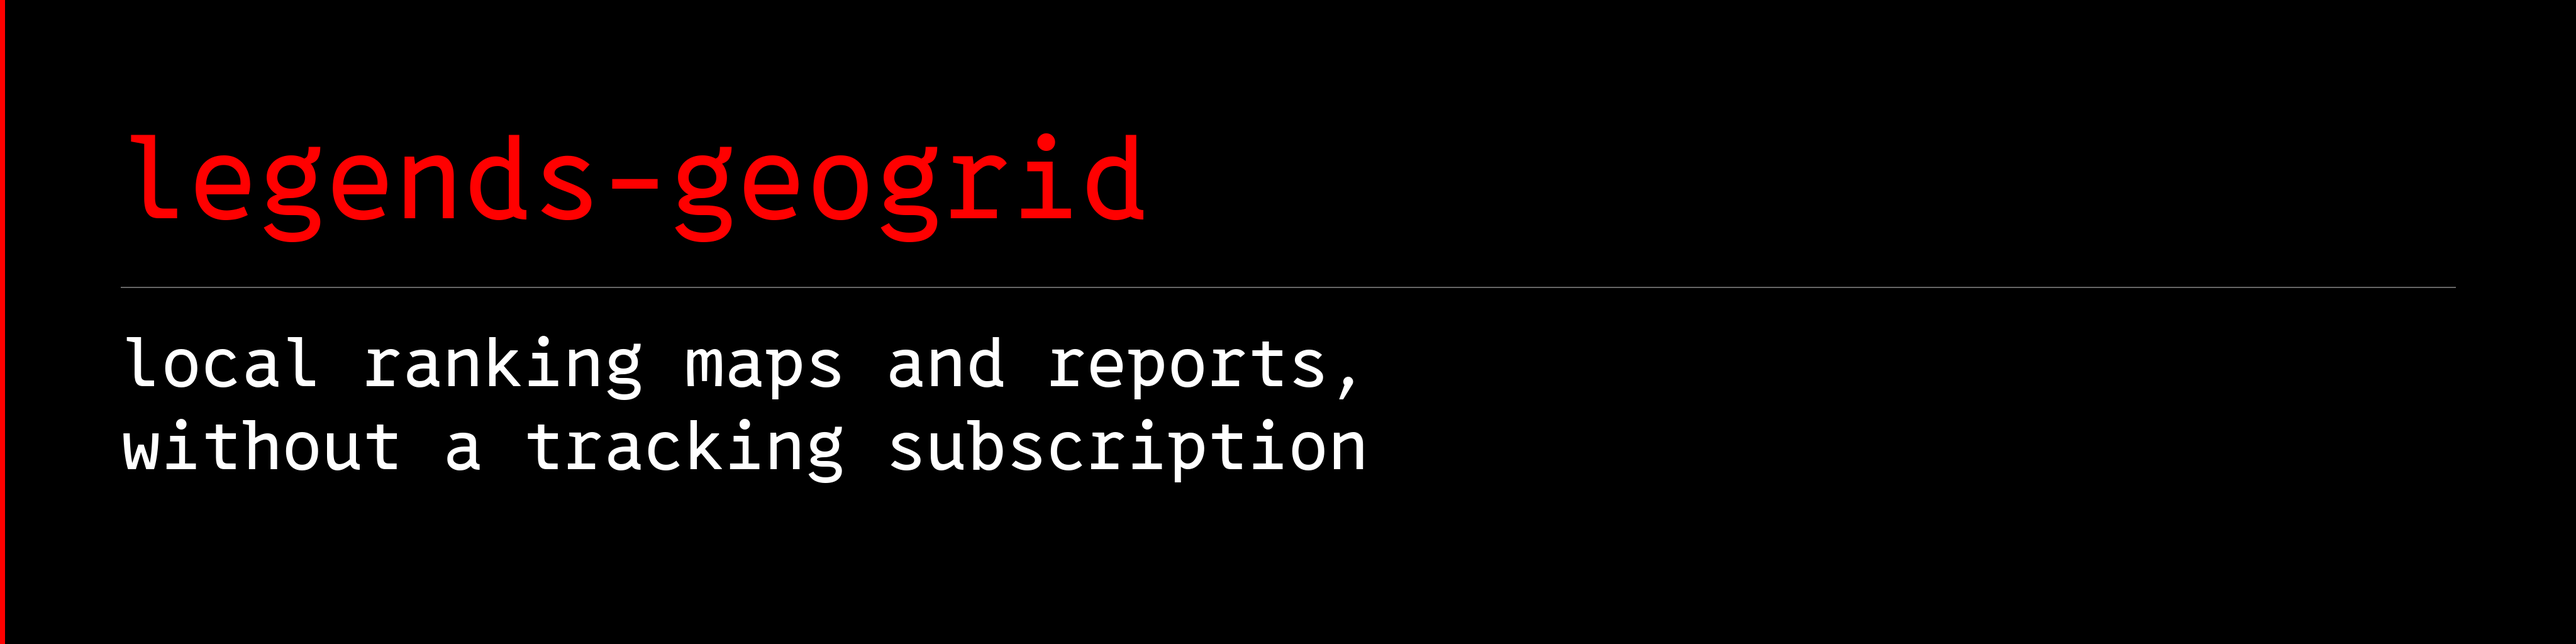
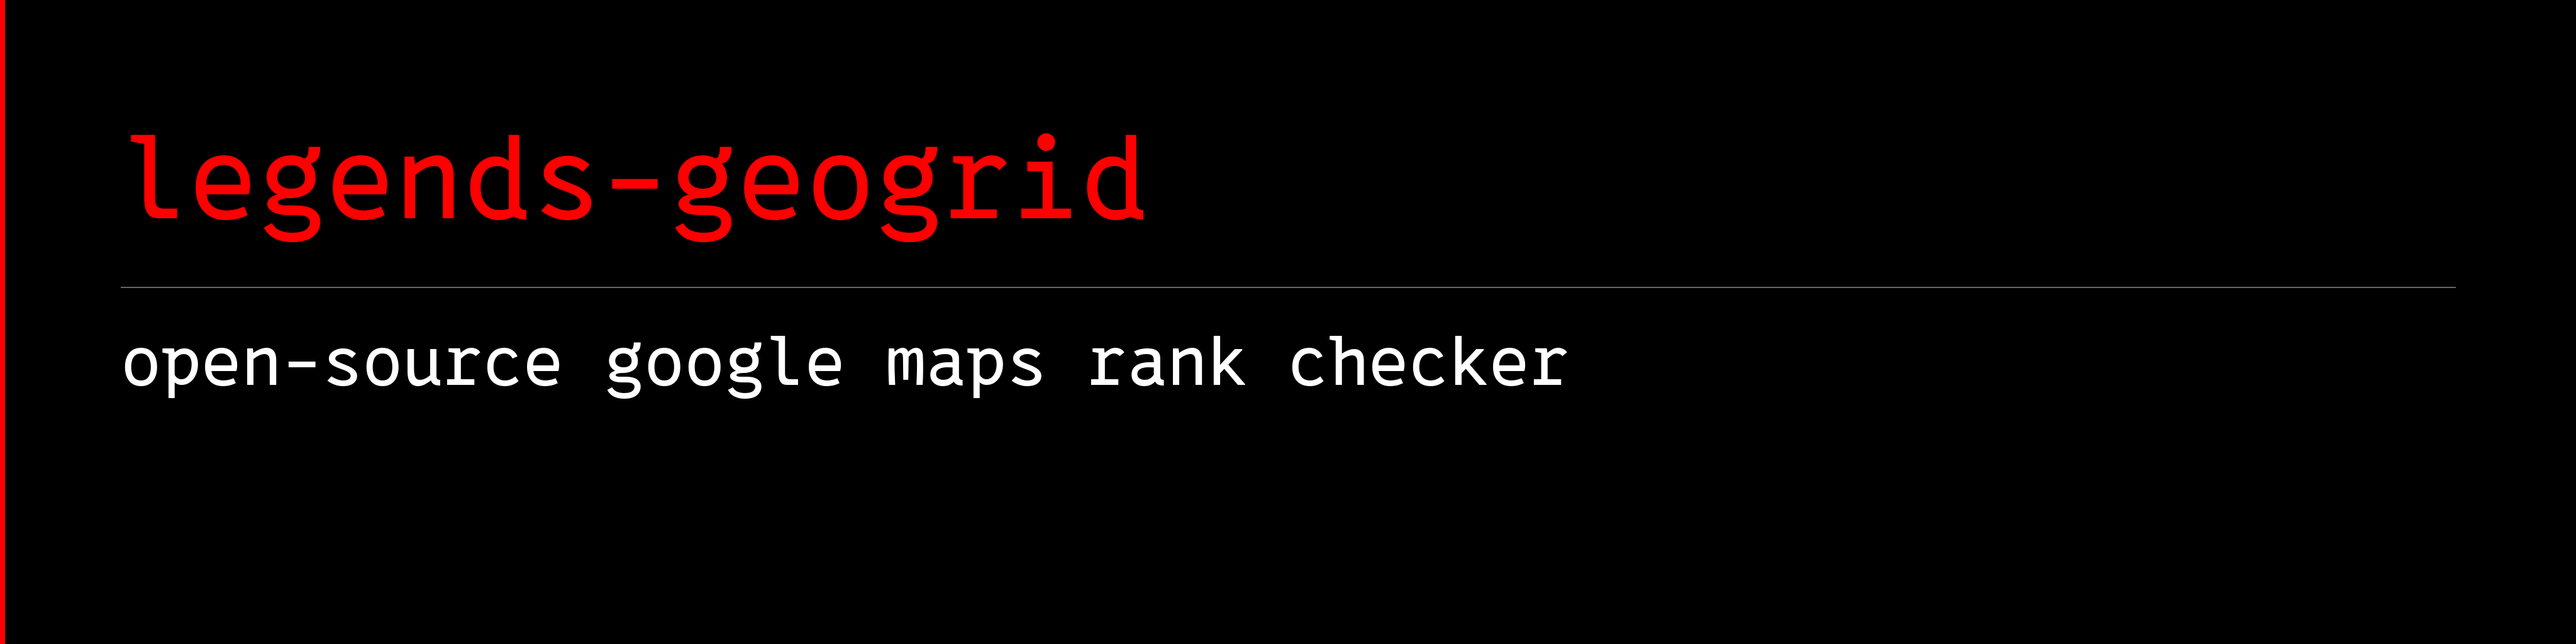
Integrate shared DataForSEO kit and sharpen GeoGrid positioning

Changed region(s): [[0.0312, 0.5312, 0.625, 0.625], [0.0312, 0.6562, 0.5312, 0.75]]

diff --git a/index.html b/index.html
@@ -4,8 +4,8 @@
     <meta charset="UTF-8" />
     <meta name="viewport" content="width=device-width, initial-scale=1.0" />
     <link rel="icon" type="image/svg+xml" href="/favicon.svg" />
-    <meta name="description" content="Open-source local SEO geo-grid scans with DataForSEO and explicit cost controls." />
-    <title>legends-geogrid · Open-source local rank grids</title>
+    <meta name="description" content="Open-source google maps rank checker with geographic ranking grids, PDF reports, and DataForSEO cost controls." />
+    <title>legends-geogrid · open-source google maps rank checker</title>
   </head>
   <body>
     <div id="app"></div>

diff --git a/tools/local_heatmap_poc.py b/tools/local_heatmap_poc.py
@@ -10,17 +10,13 @@ and writes raw JSON plus Markdown/HTML heatmap reports.
 from __future__ import annotations
 
 import argparse
-import base64
 import datetime as dt
 import html
 import json
 import math
-import os
 import re
 import sys
 import tempfile
-import urllib.error
-import urllib.request
 from urllib.parse import urlparse
 from dataclasses import dataclass
 from difflib import SequenceMatcher
@@ -172,32 +168,8 @@ def build_tasks(args: argparse.Namespace, points: list[GridPoint]) -> list[dict[
     return tasks
 
 
-def dataforseo_auth_header() -> str:
-    username = os.environ.get("DATAFORSEO_USERNAME")
-    password = os.environ.get("DATAFORSEO_PASSWORD")
-    if not username or not password:
-        raise RuntimeError("DATAFORSEO_USERNAME and DATAFORSEO_PASSWORD must be set in the environment")
-    token = base64.b64encode(f"{username}:{password}".encode("utf-8")).decode("ascii")
-    return f"Basic {token}"
-
-
 def call_dataforseo_live_task(task: dict[str, Any], timeout: int) -> dict[str, Any]:
-    request = urllib.request.Request(
-        DATAFORSEO_MAPS_LIVE_URL,
-        data=json.dumps([task]).encode("utf-8"),
-        headers={
-            "Authorization": dataforseo_auth_header(),
-            "Content-Type": "application/json",
-        },
-        method="POST",
-    )
-    try:
-        with urllib.request.urlopen(request, timeout=timeout) as response:
-            body = response.read().decode("utf-8")
-    except urllib.error.HTTPError as exc:
-        body = exc.read().decode("utf-8", errors="replace")
-        raise RuntimeError(f"DataForSEO HTTP {exc.code}: {body}") from exc
-    return json.loads(body)
+    return http_json(DATAFORSEO_MAPS_LIVE_URL, timeout=timeout, payload=[task])
 
 
 def call_dataforseo_live(tasks: list[dict[str, Any]], timeout: int) -> dict[str, Any]:
@@ -244,23 +216,22 @@ def call_dataforseo_live(tasks: list[dict[str, Any]], timeout: int) -> dict[str,
 
 
 def http_json(url: str, timeout: int, payload: list[dict[str, Any]] | None = None) -> dict[str, Any]:
-    data = None if payload is None else json.dumps(payload).encode("utf-8")
-    request = urllib.request.Request(
-        url,
-        data=data,
-        headers={
-            "Authorization": dataforseo_auth_header(),
-            "Content-Type": "application/json",
-        },
-        method="GET" if payload is None else "POST",
-    )
+    """Use the shared kit after the runner has checked its execution/spend gates.
+
+    Lazy import preserves credential-free estimates and offline report examples.
+    Raw task statuses remain available to the queue and evidence parsers.
+    """
     try:
-        with urllib.request.urlopen(request, timeout=timeout) as response:
-            body = response.read().decode("utf-8")
-    except urllib.error.HTTPError as exc:
-        body = exc.read().decode("utf-8", errors="replace")
-        raise RuntimeError(f"DataForSEO HTTP {exc.code}: {body}") from exc
-    return json.loads(body)
+        from legends_dataforseo import API_ROOT, api_request
+    except ImportError as exc:
+        raise RuntimeError(
+            "Fresh scans require legends-dataforseo-kit. "
+            "Run: python -m pip install -r requirements-dataforseo.txt"
+        ) from exc
+    if not url.startswith(API_ROOT + "/"):
+        raise ValueError("Only the official DataForSEO v3 API is supported")
+    return api_request(url[len(API_ROOT):], payload, timeout=timeout,
+                       confirm=payload is not None, consumer="legends-geogrid")
 
 
 def call_dataforseo_standard(tasks: list[dict[str, Any]], timeout: int, poll_seconds: int, poll_interval: int) -> dict[str, Any]:

diff --git a/tests/test_dataforseo_transport.py b/tests/test_dataforseo_transport.py
@@ -1,0 +1,42 @@
+"""Verify the public shared transport boundary without paid requests."""
+import sys
+from pathlib import Path
+from types import SimpleNamespace
+from unittest import TestCase
+from unittest.mock import Mock, patch
+
+sys.path.insert(0, str(Path(__file__).resolve().parents[1] / "tools"))
+import local_heatmap_poc as runner
+
+
+class KitTransportTests(TestCase):
+    def test_live_uses_kit_and_retains_empty_task_evidence(self):
+        payload = {"status_code": 20000, "tasks": [{"status_code": 40102, "result": []}]}
+        request = Mock(return_value=payload)
+        kit = SimpleNamespace(API_ROOT="https://api.dataforseo.com/v3", api_request=request)
+        with patch.dict(sys.modules, {"legends_dataforseo": kit}):
+            result = runner.call_dataforseo_live_task({"keyword": "pizza"}, 30)
+        self.assertIs(result, payload)
+        request.assert_called_once_with("/serp/google/maps/live/advanced", [{"keyword": "pizza"}],
+                                        timeout=30, confirm=True, consumer="legends-geogrid")
+
+    def test_polling_is_get_without_paid_opt_in(self):
+        request = Mock(return_value={"tasks": [{"status_code": 40601}]})
+        kit = SimpleNamespace(API_ROOT="https://api.dataforseo.com/v3", api_request=request)
+        with patch.dict(sys.modules, {"legends_dataforseo": kit}):
+            runner.http_json(runner.DATAFORSEO_MAPS_TASK_GET_ADVANCED_URL.format(task_id="test"), 10)
+        request.assert_called_once_with("/serp/google/maps/task_get/advanced/test", None,
+                                        timeout=10, confirm=False, consumer="legends-geogrid")
+
+    def test_missing_kit_explains_installation(self):
+        with patch.dict(sys.modules, {"legends_dataforseo": None}):
+            with self.assertRaisesRegex(RuntimeError, "requirements-dataforseo.txt"):
+                runner.call_dataforseo_live_task({}, 10)
+
+    def test_foreign_endpoint_is_rejected(self):
+        request = Mock()
+        kit = SimpleNamespace(API_ROOT="https://api.dataforseo.com/v3", api_request=request)
+        with patch.dict(sys.modules, {"legends_dataforseo": kit}):
+            with self.assertRaises(ValueError):
+                runner.http_json("https://example.com/v3", 10, [{}])
+        request.assert_not_called()

diff --git a/tools/geogrid_doctor.py b/tools/geogrid_doctor.py
@@ -44,6 +44,7 @@ def command_exists(command: str) -> bool:
 def main() -> int:
     parser = argparse.ArgumentParser(description=__doc__)
     parser.add_argument('--reports', action='store_true', help='Require the optional PDF report engine and its dependencies')
+    parser.add_argument('--dataforseo', action='store_true', help='Require the shared DataForSEO kit for fresh scans; no API calls')
     args = parser.parse_args()
     required = [
         "package.json",
@@ -62,6 +63,14 @@ def main() -> int:
         "vite.config.js",
     ]
     missing = []
+    if args.dataforseo:
+        try:
+            from legends_dataforseo import api_request
+            from importlib.metadata import version
+            ok('legends-dataforseo-kit', version('legends-dataforseo-kit'))
+        except (ImportError, ModuleNotFoundError):
+            missing.append('legends-dataforseo-kit')
+            fail('legends-dataforseo-kit', 'install requirements-dataforseo.txt')
     if args.reports:
         required.extend(['tools/strategy_report.py', 'tools/report_model.py', 'tools/adaptive_geogrid.py', 'requirements-report.txt'])
         for module in ('reportlab', 'PIL'):
@@ -91,7 +100,7 @@ def main() -> int:
     else:
         warn("pnpm", "not found on PATH")
 
-    username = os.environ.get("DATAFORSEO_USERNAME")
+    username = os.environ.get("DATAFORSEO_LOGIN") or os.environ.get("DATAFORSEO_USERNAME")
     password = os.environ.get("DATAFORSEO_PASSWORD")
     if username and password:
         ok("DataForSEO env", "configured for paid scans")

diff --git a/tests/test_release_pipeline.py b/tests/test_release_pipeline.py
@@ -98,7 +98,7 @@ class ReleasePipelineAcceptance(unittest.TestCase):
                     actual = tuple(metrics[k] for k in ("points", "found_points", "visible_eligible_points",
                                                         "top3_eligible_points", "solv", "error_points"))
                     self.assertEqual(expected, actual)
-                    with patch.object(local.urllib.request, "urlopen", side_effect=AssertionError("Network forbidden")):
+                    with patch.object(local, "http_json", side_effect=AssertionError("Network forbidden")):
                         outputs = local.write_outputs(args, local.build_tasks(args, points), payload, results)
                     parsed = json.loads(Path(outputs["parsed_json"]).read_text(encoding="utf-8"))
                     self.assertEqual(metrics, parsed["metrics"])
@@ -492,7 +492,7 @@ class AdaptiveReleaseAcceptance(unittest.TestCase):
 
     def test_clean_negative_layers_require_sentinels_and_resume_is_free(self):
         import adaptive_geogrid as adaptive
-        with tempfile.TemporaryDirectory() as directory, patch.object(local.urllib.request, "urlopen", side_effect=AssertionError("Network forbidden")):
+        with tempfile.TemporaryDirectory() as directory, patch.object(local, "http_json", side_effect=AssertionError("Network forbidden")):
             adapter = adaptive.ReplayAdapter({"default": {"state": "not_returned"}})
             collector = adaptive.Collector(self.config(), adapter, Path(directory), 1)
             receipt = collector.run()

diff --git a/tests/test_adaptive_geogrid.py b/tests/test_adaptive_geogrid.py
@@ -410,7 +410,7 @@ class CliTests(unittest.TestCase):
             path = directory / "config.json"
             path.write_text(json.dumps(config()), encoding="utf-8")
             with patch.object(ag.runner, "call_dataforseo_live_task", side_effect=AssertionError("network")), \
-                    patch.object(ag.runner, "dataforseo_auth_header", side_effect=AssertionError("credentials")):
+                    patch.object(ag.runner, "http_json", side_effect=AssertionError("provider transport")):
                 with patch("builtins.print"):
                     self.assertEqual(0, ag.main(["--config", str(path), "--output-dir", str(directory)]))
                     self.assertEqual(2, ag.main(["--config", str(path), "--execute", "--output-dir", str(directory)]))
@@ -420,7 +420,7 @@ class CliTests(unittest.TestCase):
     def test_replay_does_not_access_authentication_or_network(self):
         with tempfile.TemporaryDirectory() as temp:
             with patch.object(ag.runner, "call_dataforseo_live_task", side_effect=AssertionError("network")), \
-                    patch.object(ag.runner, "dataforseo_auth_header", side_effect=AssertionError("credentials")), \
+                    patch.object(ag.runner, "http_json", side_effect=AssertionError("provider transport")), \
                     patch("builtins.print"):
                 result = ag.main(["--config", str(ROOT / "examples/adaptive/sample.json"),
                                   "--replay", str(ROOT / "examples/adaptive/replay.json"), "--output-dir", temp])

diff --git a/README.md b/README.md
@@ -7,9 +7,9 @@
 [![checks](https://img.shields.io/github/actions/workflow/status/avalonreset/legends-geogrid/ci.yml?branch=main&label=checks&style=flat-square&labelColor=000000)](https://github.com/avalonreset/legends-geogrid/actions/workflows/ci.yml)
 [![license](https://img.shields.io/github/license/avalonreset/legends-geogrid?label=license&style=flat-square&labelColor=000000&color=666666)](LICENSE)
 
-legends-geogrid is an open-source toolkit for measuring local search visibility and turning the evidence into readable PDF reports. Compare services across shared locations, explore how far visibility extends, and present findings, limitations, and a concrete next action without a hosted rank-tracking subscription.
+legends-geogrid is an **open-source google maps rank checker** for local SEO. See where a business ranks across a geographic grid, compare visibility across services, and turn the evidence into readable PDF reports. Run it locally with your own DataForSEO account, without a rank-tracking subscription.
 
-The browser studio ships with a saved real-world 17 x 17 proof scan, so you can explore the interface without credentials or API spend. The Python runners use DataForSEO for fresh scans, cache results by scan fingerprint, and require explicit execution plus a cost ceiling before spending credits.
+Explore a saved real-world 17 × 17 pizza-shop scan in the browser, or generate a sample strategy report without credentials or API spend. Fresh scans use [legends-dataforseo-kit](https://github.com/avalonreset/legends-dataforseo-kit), with explicit execution, cost estimates, and reusable cached results.
 
 <p align="center">
   <a href="https://www.youtube.com/shorts/4RYY_gh6b70">
@@ -49,9 +49,9 @@ Open `runs/first-report/report.pdf`. This synthetic example makes no network req
 
 Street geography requires a supplied georeferenced image with attribution. Default examples use explicitly labeled coordinate diagrams. See the [basemap contract](examples/reports/README.md) before adding imagery.
 
-## Economics and control
+## A local rank tracker at data cost
 
-You own the workflow and local outputs. Fresh searches use your DataForSEO account. The single and bulk runners estimate Standard Queue scans at a modeled base of `$0.0006` per task: 289 tasks in a 17 x 17 scan total `$0.1734` before optional multipliers. Adaptive collection uses the Live endpoint and its different rate. These are software estimates, not a live price quotation or a provider-enforced billing cap.
+If you are evaluating a Local Falcon alternative, start with the tradeoff: you own the workflow and local outputs, and take responsibility for setup, scheduling, and interpretation. This is a self-managed tool rather than a managed-service feature match. Fresh searches use your DataForSEO account. The single and bulk runners estimate Standard Queue scans at a modeled base of `$0.0006` per task: 289 tasks in a 17 x 17 scan total `$0.1734` before optional multipliers. Adaptive collection uses the Live endpoint and its different rate. These are software estimates, not a live price quotation or a provider-enforced billing cap.
 
 Review the generated estimate and [current provider pricing](https://dataforseo.com/apis/serp-api/google-maps-api) before paid execution. Both an execution flag and a cost ceiling are required. The offline examples and replay mode spend nothing.
 
@@ -111,12 +111,23 @@ python tools/local_heatmap_poc.py `
   --method standard
 ```
 
+## Install the shared DataForSEO engine
+
+Fresh scans depend on [legends-dataforseo-kit](https://github.com/avalonreset/legends-dataforseo-kit), an open-source Python API client and CLI. It handles provider access without an MCP server. GeoGrid handles the grid, evidence, caching, and reports.
+
+```sh
+python -m pip install -r requirements-dataforseo.txt
+python tools/geogrid_doctor.py --dataforseo
+```
+
+The kit is required for fresh scans; saved demos, cost estimates, replay, and offline reports work without it. An agent setting up live scans should install this dependency before execution. See [agent instructions](AGENTS.md).
+
 ## Run a paid scan
 
 Set credentials in your shell. Do not put them in Git:
 
 ```powershell
-$env:DATAFORSEO_USERNAME="your-login"
+$env:DATAFORSEO_LOGIN="your-login"
 $env:DATAFORSEO_PASSWORD="your-password"
 ```
 

diff --git a/AGENTS.md b/AGENTS.md
@@ -1,0 +1,32 @@
+# legends-geogrid agent instructions
+
+legends-geogrid is an open-source google maps rank checker. Preserve that
+lowercase positioning and the approved Legends banner style.
+
+## Setup and dependencies
+
+- Offline report: install `requirements-report.txt`, then run the README's
+  synthetic report example. No provider credentials or API spending are needed.
+- Browser demo: `pnpm install --frozen-lockfile`, then `pnpm dev`.
+- Fresh scans: install `requirements-dataforseo.txt`. This installs the public
+  [legends-dataforseo-kit](https://github.com/avalonreset/legends-dataforseo-kit)
+  dependency. Run `python tools/geogrid_doctor.py --dataforseo` before collection.
+  Do not install an MCP server or copy a second HTTP/authentication client.
+- Credentials: `DATAFORSEO_LOGIN` (or `DATAFORSEO_USERNAME`) and
+  `DATAFORSEO_PASSWORD`. Never print, commit, or embed credentials in reports.
+
+## Research and collection
+
+Read `docs/START_A_STUDY.md` before paid collection. Establish business identity,
+query, location, language and the decision being studied. Estimate first. Paid
+scans require both `--execute` and `--confirm-cost-usd`; retain these gates.
+Use the kit for provider access and the GeoGrid runners for sampling/caching.
+Never describe advisory estimates as a provider-enforced billing limit.
+
+## Verification and publishing
+
+Run `pnpm check` for code changes after installing report dependencies. Test the
+shared transport with fixtures; no paid call is necessary for ordinary tests.
+Preserve full basemaps and attribution. Inspect every final report page.
+Keep user run folders and private reports out of commits. Maintain the distinction
+between measured ranks, missing evidence, business hypotheses and recommendations.

diff --git a/CHANGELOG.md b/CHANGELOG.md
@@ -1,5 +1,11 @@
 # Changelog
 
+## 0.3.1 - 2026-09-20
+
+- Use the public legends-dataforseo-kit for fresh Live and Standard/Priority Queue requests, preserving task statuses, existing spend gates, and credential-free offline workflows.
+- Add the pinned provider dependency manifest, agent setup instructions, and a no-network dependency doctor.
+- Lead with open-source google maps rank checker across the banner, README, and project metadata; clarify data costs and self-managed operation.
+
 ## 0.3.0 - 2026-09-20
 
 - Refreshed the existing release with continuous basemap rendering: preserve embedded credits in their original image position instead of detaching and rescaling a bottom strip. Reject legacy strip configurations with migration guidance; use complete-image bounds and `protected_bottom_px`. Added continuity and credit-overlap regression checks.

diff --git a/THIRD_PARTY_NOTICES.md b/THIRD_PARTY_NOTICES.md
@@ -140,3 +140,7 @@ distributed, but only on the condition that the trademark "Bitstream" or
 ### Distribution notice guidance
 
 When distributing binary wheels, container images, or bundled environments containing these dependencies, retain upstream license texts for ReportLab, Pillow, and pypdfium2, along with PDFium third-party notices and the Bitstream Vera font notice for fonts embedded into generated PDFs. No AGPL dependencies (such as PyMuPDF) are introduced.
+
+## legends-dataforseo-kit
+
+Fresh scans use the separately installed [legends-dataforseo-kit](https://github.com/avalonreset/legends-dataforseo-kit), distributed under the MIT license. Its license is included with its distribution. No MCP server is required.

diff --git a/docs/PRODUCT_STATUS.md b/docs/PRODUCT_STATUS.md
@@ -2,6 +2,8 @@
 
 ## Release state
 
+Version 0.3.1 adds the shared legends-dataforseo-kit dependency for fresh provider calls. Offline reporting and saved demos remain credential-free. The transport change keeps existing queue handling and scan spend gates.
+
 Version 0.3.0 adds the multi-lane strategy report engine, adaptive sampling collector, and copy-fit contracts. Source distributions and release notes are available from [GitHub Releases](https://github.com/avalonreset/legends-geogrid/releases).
 
 Today it can:
